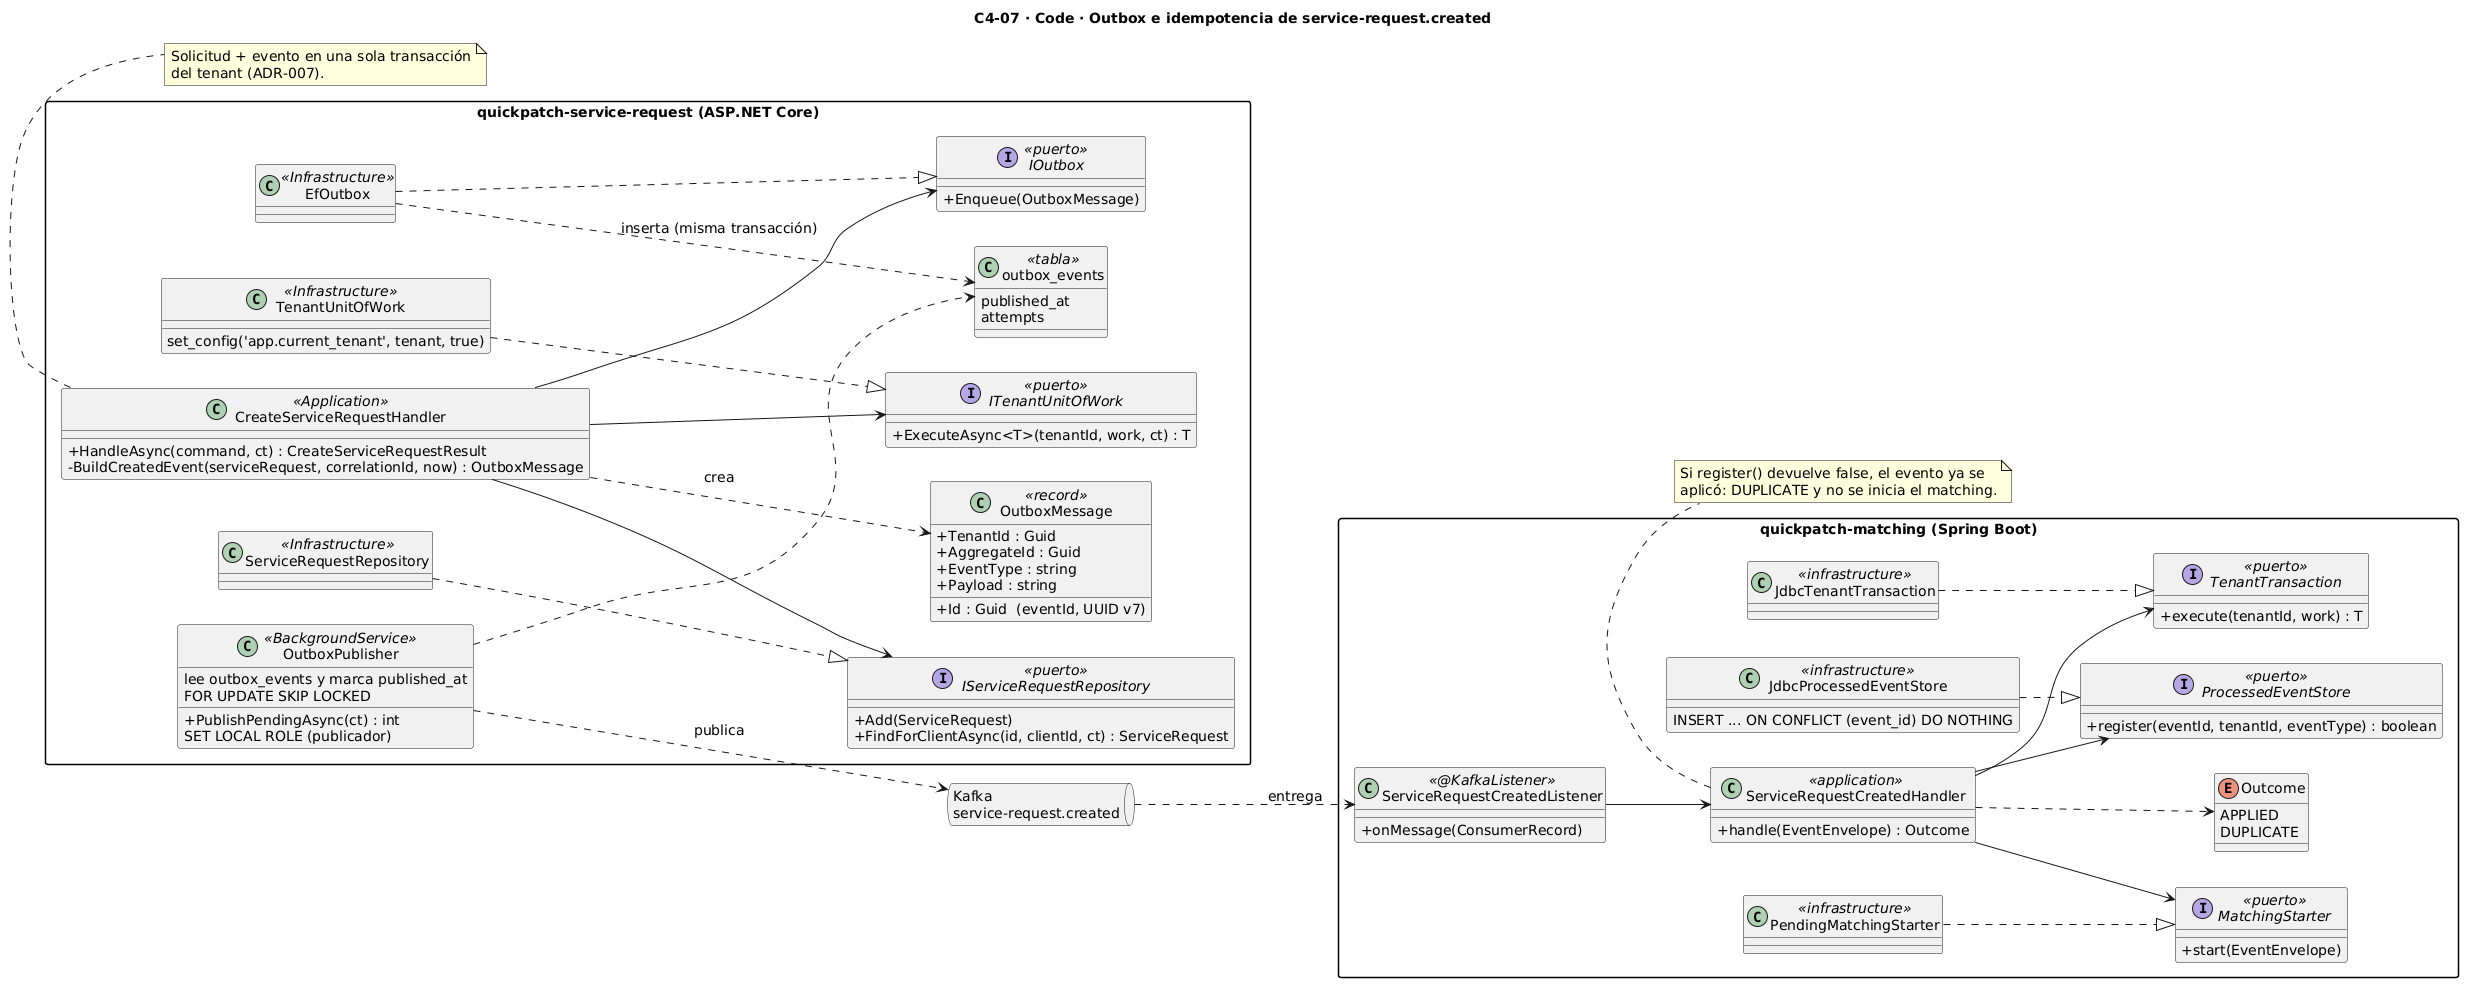
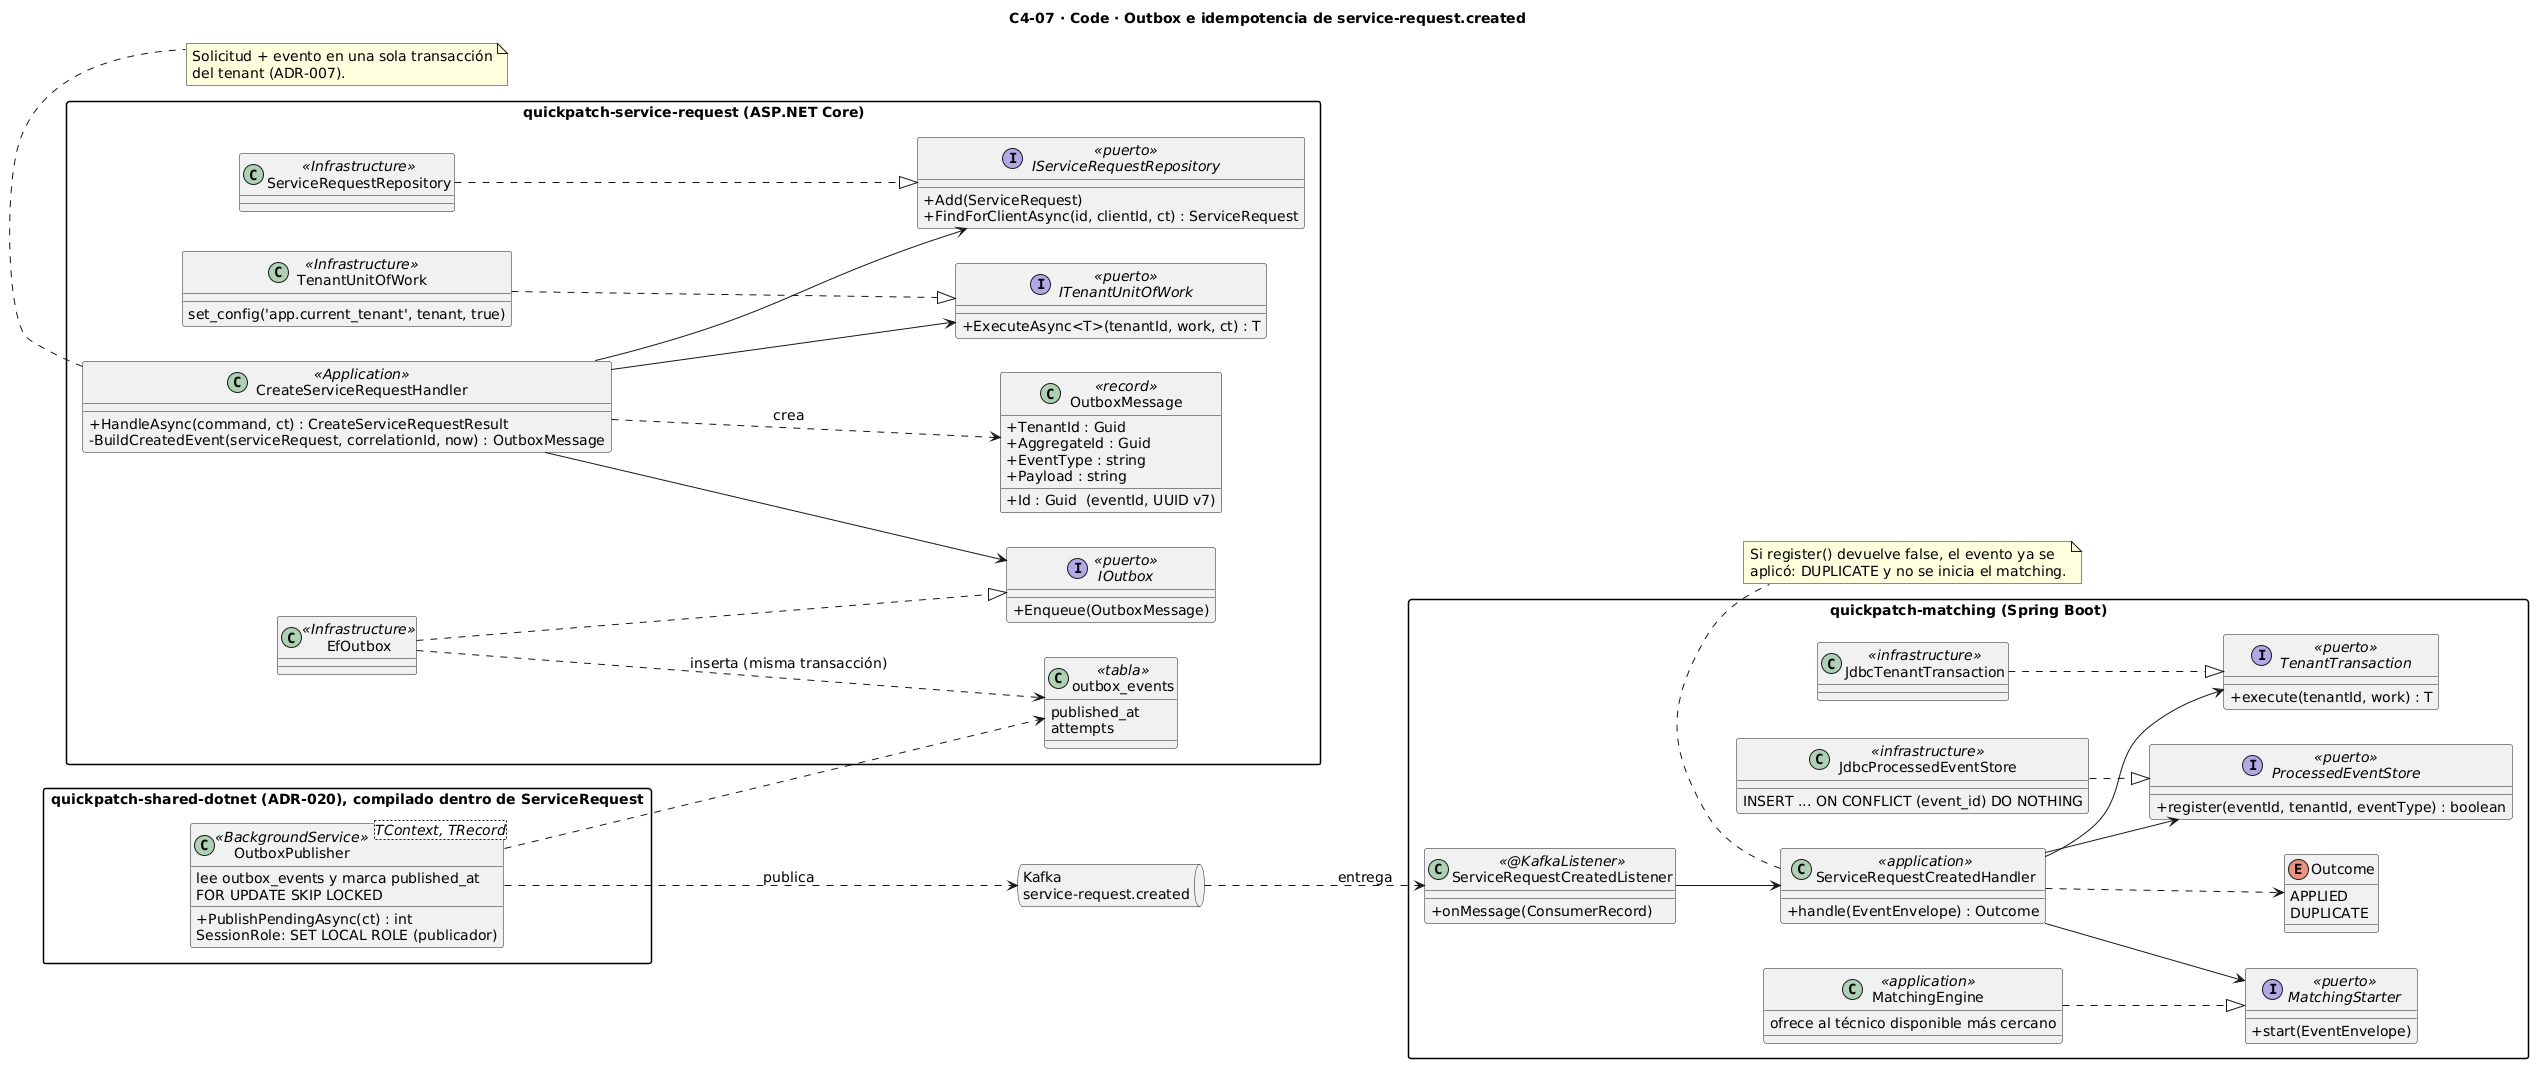
docs(c4): componentes y código alineados con quickpatch-shared-dotnet (SCRUM-677, SCRUM-679)
OutboxPublisher y X-Correlation-Id vienen de la librería de ADR-020; C4-07 sin PendingMatchingStarter
(ahora MatchingEngine implementa MatchingStarter).

diff --git a/docs/architecture/SDD.md b/docs/architecture/SDD.md
@@ -819,11 +819,11 @@ Los diagramas de 7.1 y 7.2 se trazaron sobre el código de `develop` del 7 de oc
 | `CreateServiceRequestHandler` | `quickpatch-service-request` | Dentro de `ITenantUnitOfWork.ExecuteAsync` agrega la solicitud y encola el evento en `IOutbox`; los dos cambios se confirman en la misma transacción (ADR-007). El `eventId` es un UUID v7. |
 | `TenantUnitOfWork` | `quickpatch-service-request` | Abre la transacción, fija `app.current_tenant` con `set_config(..., true)` (RLS), ejecuta el trabajo, guarda y confirma. |
 | `EfOutbox` | `quickpatch-service-request` | Inserta el mensaje en `outbox_events` con el mismo `DbContext` de la solicitud. |
-| `OutboxPublisher` | `quickpatch-service-request` | Servicio en segundo plano: toma lotes con `FOR UPDATE SKIP LOCKED` y el rol de publicación (`SET LOCAL ROLE`), publica en Kafka con la clave del agregado y las cabeceras `eventId` y `eventType`, y marca `published_at`. Si Kafka falla, incrementa `attempts` y reintenta en el siguiente ciclo. |
+| `OutboxPublisher<TContext, TRecord>` | `quickpatch-shared-dotnet` (ADR-020), registrado por `quickpatch-service-request` | Servicio en segundo plano común a los 6 servicios .NET: toma lotes con `FOR UPDATE SKIP LOCKED` y el rol de publicación (`SET LOCAL ROLE`), publica en Kafka con la clave del agregado y las cabeceras `eventId` y `eventType`, y marca `published_at`. Si Kafka falla, incrementa `attempts` y reintenta en el siguiente ciclo. |
 | `ServiceRequestCreatedListener` | `quickpatch-matching` | Consume el topic, descarta y registra los mensajes que no cumplen el contrato, y propaga `correlationId`, `tenantId` y `eventId` en el MDC de los logs. |
 | `ServiceRequestCreatedHandler` | `quickpatch-matching` | En una transacción por tenant, registra el evento y solo si es nuevo inicia el matching: resultado `APPLIED` o `DUPLICATE`. |
 | `JdbcProcessedEventStore` | `quickpatch-matching` | `INSERT ... ON CONFLICT (event_id) DO NOTHING` en `processed_events`: la base de datos garantiza la deduplicación aun con dos consumidores concurrentes (RN-EV1). |
-| `PendingMatchingStarter` | `quickpatch-matching` | Punto de extensión donde entra el algoritmo de matching (RF-09); hoy solo registra el inicio. |
+| `MatchingEngine` | `quickpatch-matching` | Implementa `MatchingStarter`: guarda la solicitud y ofrece al técnico disponible más cercano de la especialidad (RF-09, RN-M1, RN-M4). |
 
 Los reintentos del consumidor los aplica `DefaultErrorHandler` con espera fija de 2 segundos y sin límite de intentos (`KafkaConfig`). La DLQ de la sección 8.9 todavía no está implementada.
 
@@ -1741,7 +1741,7 @@ Las cuatro capas son **proyectos** separados en .NET y **paquetes raíz** en Jav
 src/
 ├── QuickPatch.<Servicio>.Api/              # Interfaz: lo que entra por HTTP o WebSocket
 │   ├── Endpoints/                          #   <Recurso>Endpoints.cs: rutas, validación de entrada y mapeo a resultados HTTP
-│   ├── Http/                               #   Problems (RFC 9457), CorrelationId, middleware
+│   ├── Http/                               #   Problems (RFC 9457) y manejo de errores; X-Correlation-Id y logging vienen de quickpatch-shared-dotnet (ADR-020)
 │   ├── Security/                           #   AuthenticatedUser (claims del JWT), políticas por rol
 │   ├── Bootstrap/                          #   (opcional) semillas y tareas de arranque
 │   └── Program.cs
@@ -1837,9 +1837,9 @@ La convención de 10.3.1 ordena las carpetas, pero el profesor observó en el ci
 | `DbContext`, configuraciones, migraciones | `Infrastructure/Persistence/` | Solo los usa `Infrastructure`. |
 | Contrato de evento (publicado o consumido) | `Application/Events/` | Copia del esquema de `contracts/kafka/` (regla 4 de 10.3.1). |
 | Handler de un evento consumido | `Application/Events/` | La regla de negocio del consumo. Es testeable sin Kafka. |
-| Consumidor de Kafka | `Infrastructure/Messaging/<Topic>Consumer.cs` | Transporte: deserializa, aplica la idempotencia con `processed_events` (ADR-007), abre la unidad de trabajo del tenant y delega en el handler de `Application/Events`. |
+| Consumidor de Kafka | `Infrastructure/Messaging/<Topic>Consumer.cs`, sobre `KafkaConsumerService` de `quickpatch-shared-dotnet` | Transporte: deserializa, aplica la idempotencia con `processed_events` (ADR-007), abre la unidad de trabajo del tenant y delega en el handler de `Application/Events`. |
 | Outbox: escritura | Puerto `IOutbox` en `Application/Abstractions`; implementación en `Infrastructure/Persistence` | El handler agrega el evento al Outbox en la misma transacción del cambio. |
-| Outbox: publicador | `Infrastructure/Messaging/OutboxPublisher.cs` | `BackgroundService`; el único que usa el productor de Kafka. |
+| Outbox: publicador | `OutboxPublisher<TContext, TRecord>` de `quickpatch-shared-dotnet` (ADR-020), registrado en `Infrastructure/DependencyInjection.cs` | `BackgroundService`; el único que usa el productor de Kafka. El servicio no lo copia. |
 | Integración externa (Garage, Nominatim, PSP, correo, PDF) | `Infrastructure/<Sistema>/`, detrás de un puerto | Un adaptador por sistema. |
 | Configuración tipada | `Infrastructure/Options/` (o `Api/Security` si solo la usa el API) | Se valida al arrancar. |
 | Seguridad del API (claims, políticas) | `Api/Security/` | `AuthenticatedUser` entrega el tenant y el rol del JWT. El tenant nunca sale del cuerpo de la petición. |
